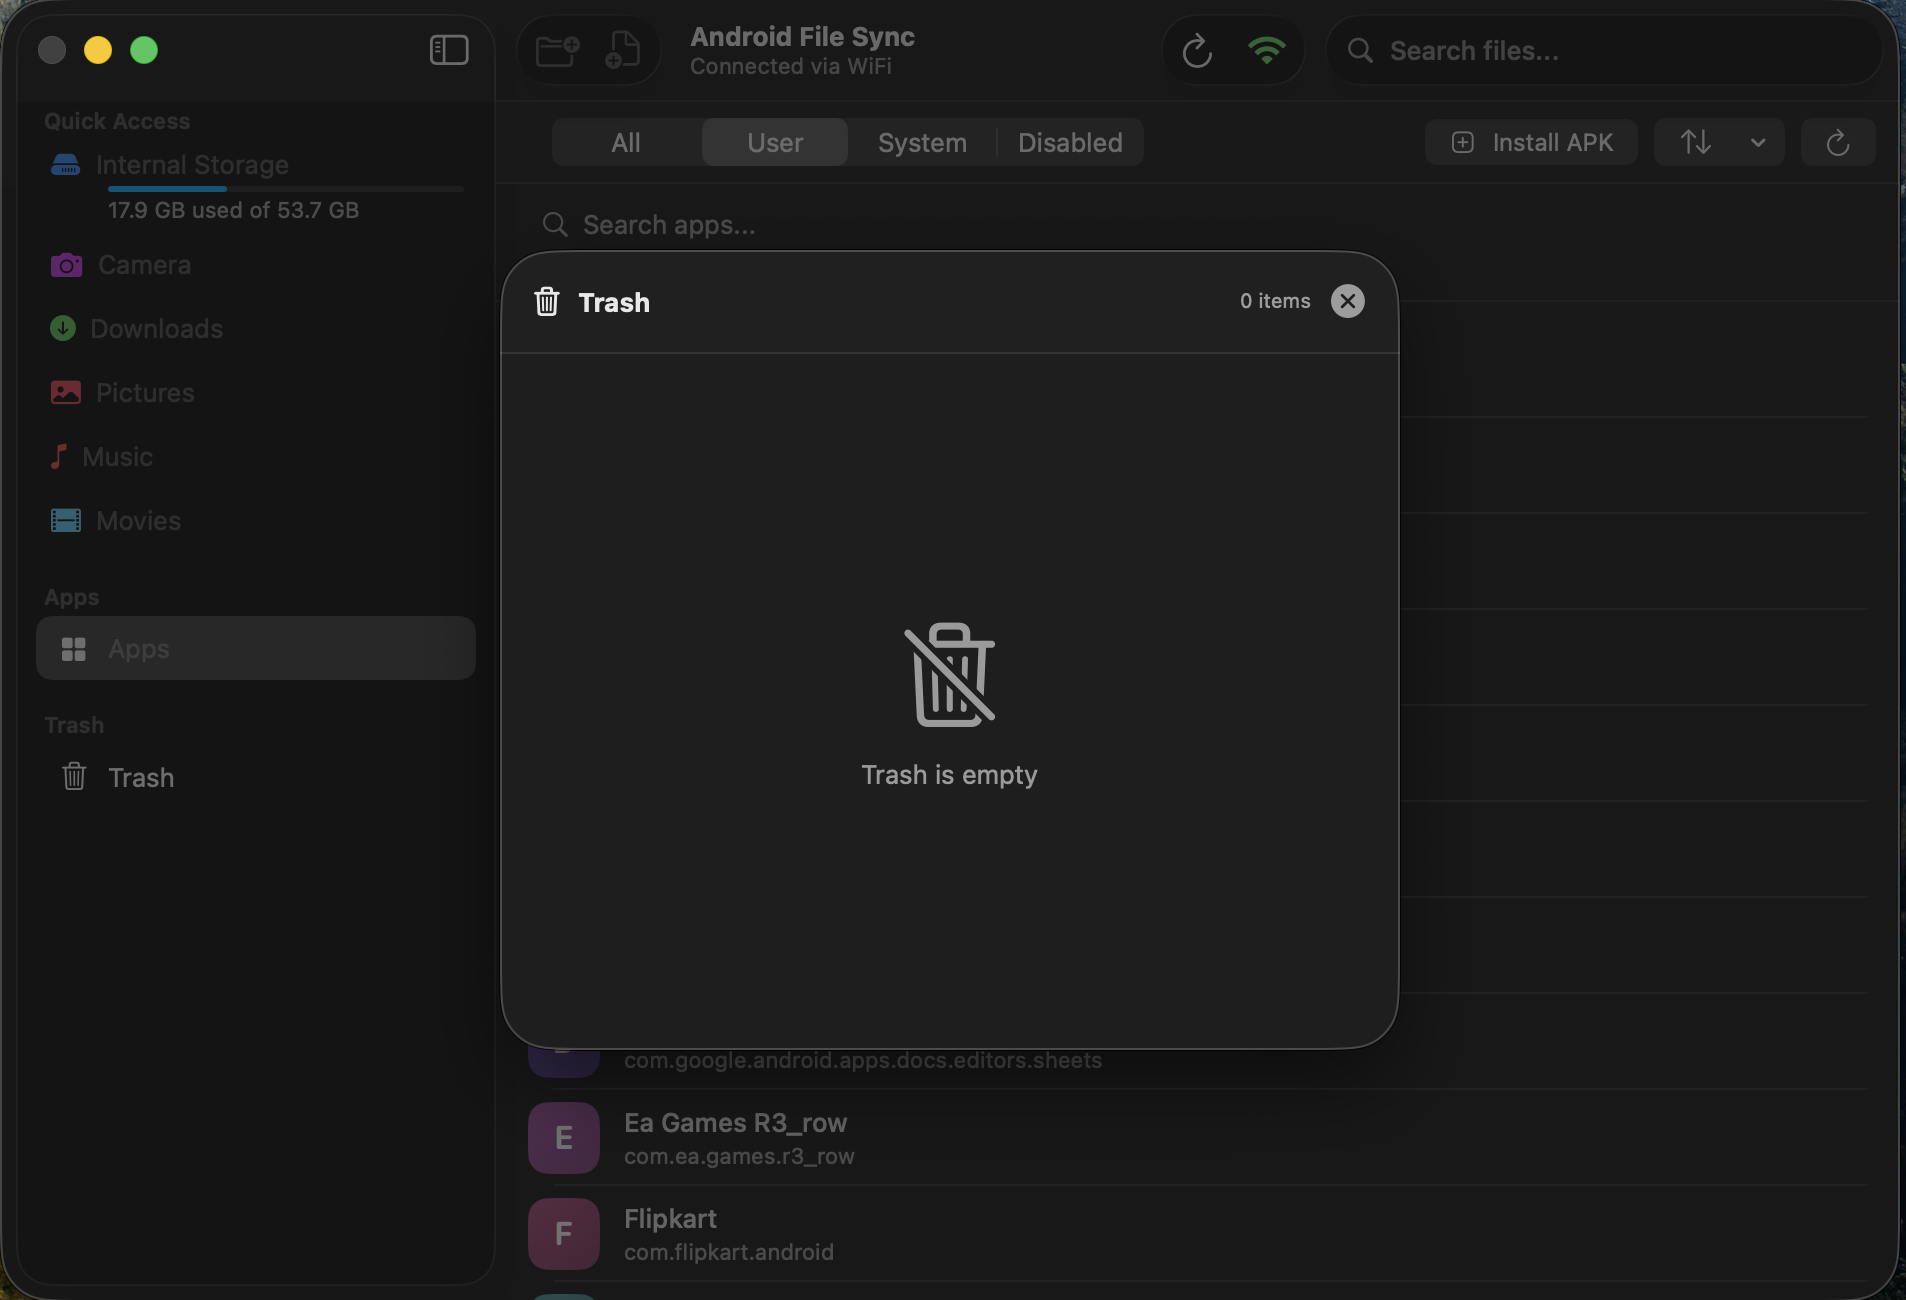
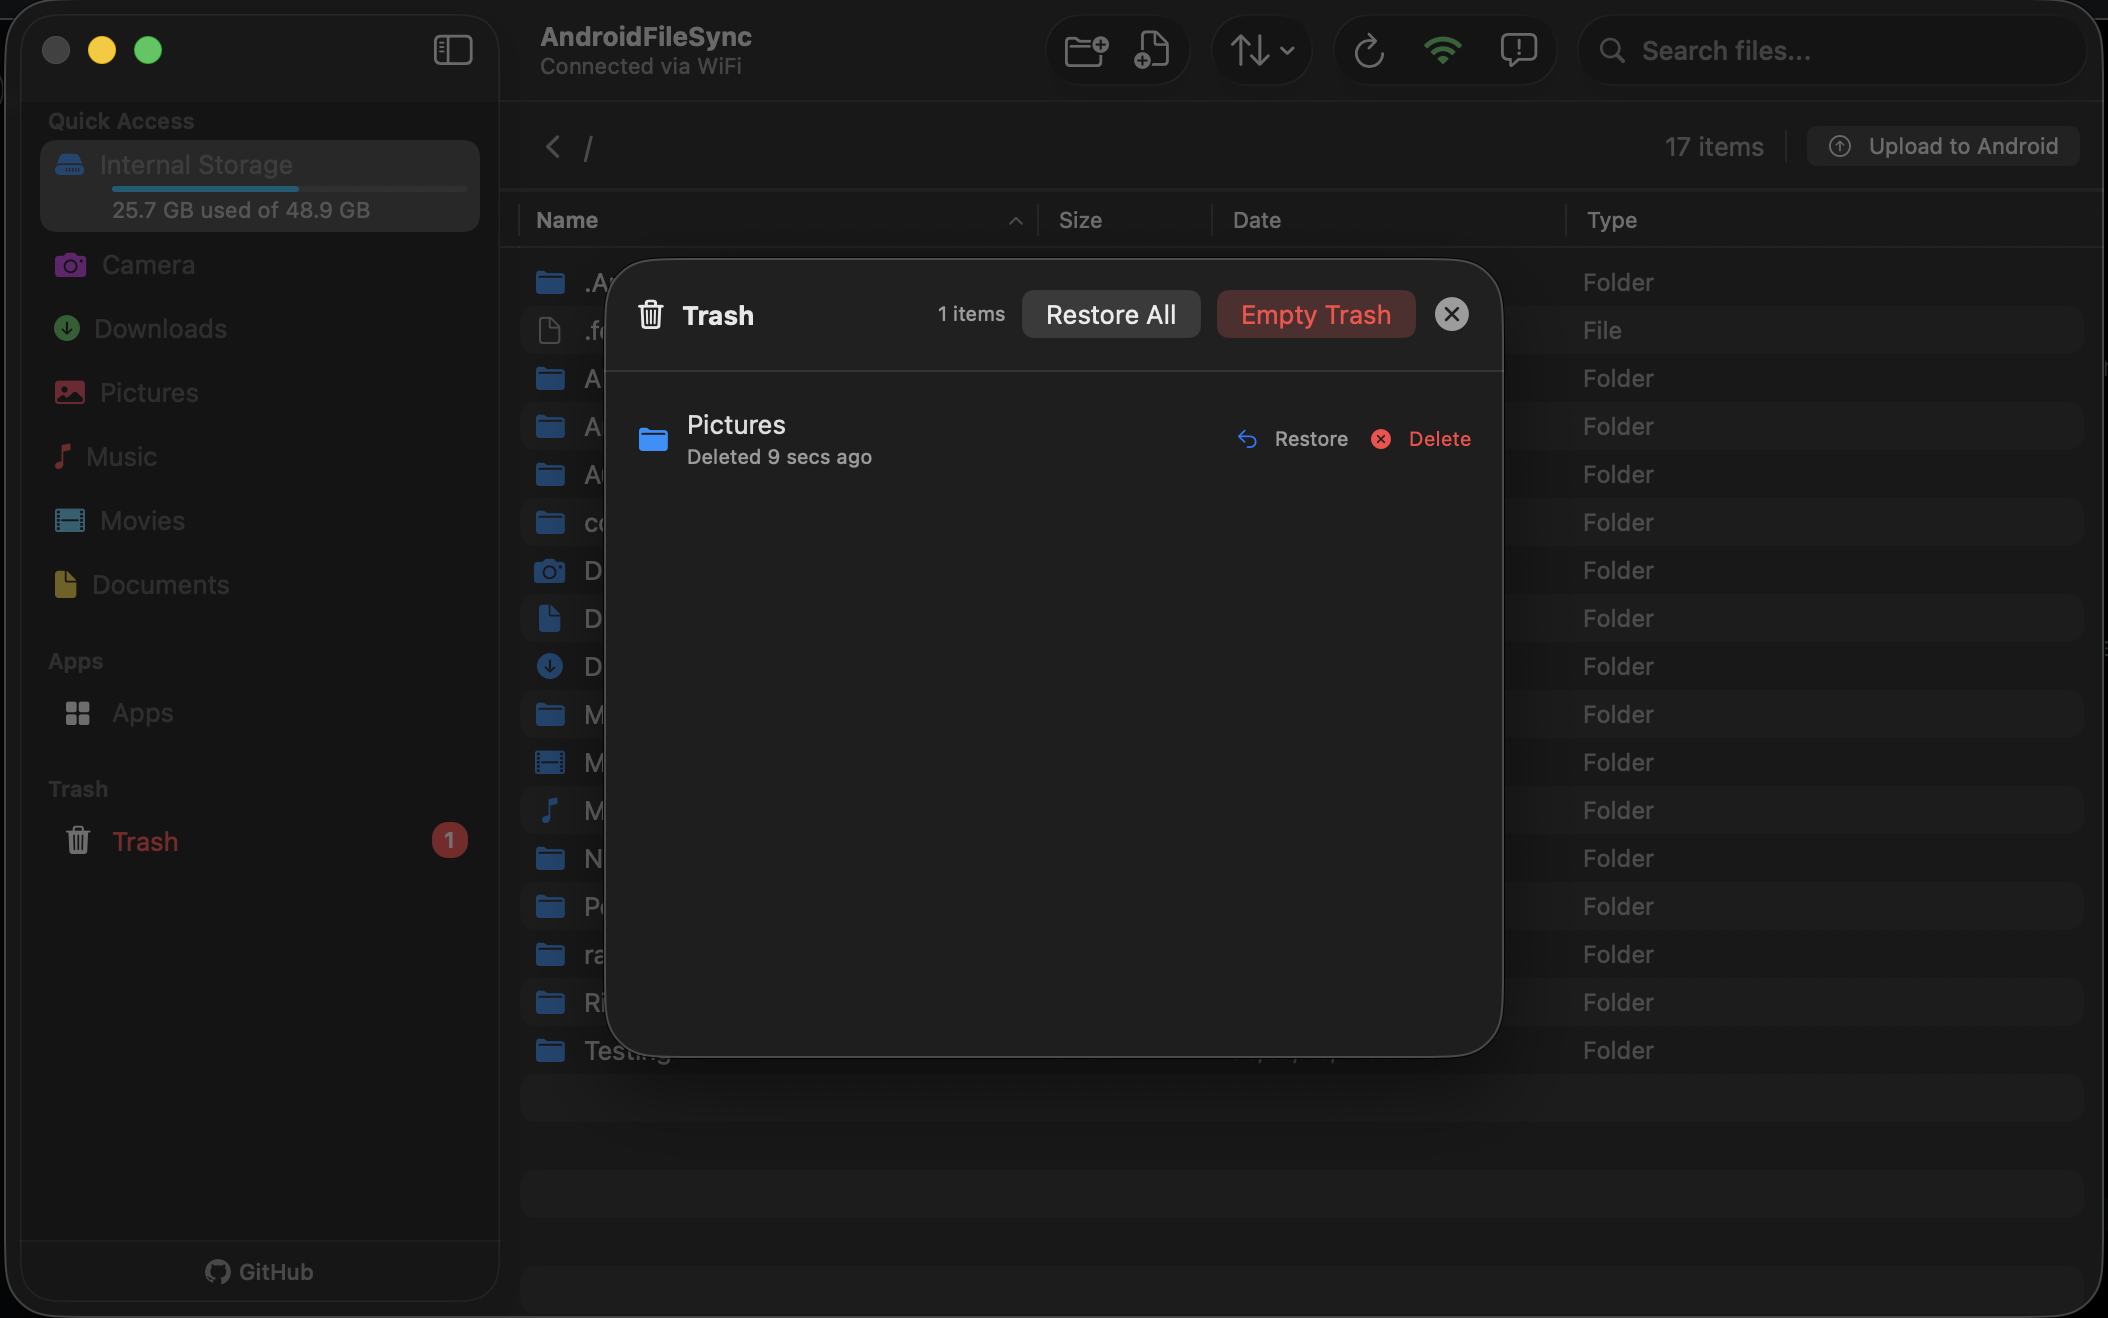
docs: Reame Update

diff --git a/README.md b/README.md
@@ -16,14 +16,14 @@ No cloud. No Google account needed. Plug in via USB or connect wirelessly over W
 - 📁 **Browse your phone like Finder** — Navigate folders, search, sort by name/size/type
 - 🖱 **Drag & Drop** — Drag files from your Mac straight to your phone
 - 📶 **USB or WiFi** — Connect with a cable, or wirelessly over your home network
-- 👁 **Preview files** — Double-click to view images, videos, and PDFs without downloading
+- 👁 **Preview files** — Hit **Spacebar** (or double-click) to view images, videos, and PDFs instantly using native Quick Look
 - 🚀 **Fast transfers** — Upload and download multiple files at the same time
 - ⚠ **Duplicate detection** — Warns you before overwriting files that already exist
 - 🗑 **Trash & Restore** — Deleted something by accident? Restore it, just like on macOS
 - ✂ **Copy, Cut, Paste** — Move files between folders on your phone with clipboard shortcuts
 - 📝 **Rename & Batch operations** — Rename files, change extensions, delete in bulk
 - 💾 **SD Card support** — Browse and manage files on your external SD card
-- 📱 **App Manager** — Install, uninstall, disable and manage apps (System/User) on your Android device
+- 📱 **App Manager & Sideloading** — Sideload `.apk`, `.xapk`, `.apks`, or split `.zip` files by dragging them in, plus uninstall, disable, and backup system/user apps
 
 ---
 
@@ -167,6 +167,29 @@ If Auto-Discovery doesn't find your phone (for example, on a corporate network o
 
 ---
 
+## ⌨ Keyboard Shortcuts
+
+AndroidFileSync supports familiar Finder-like keyboard shortcuts for fast, mouse-free file management:
+
+| Action | Shortcut |
+| :--- | :--- |
+| **Quick Look Preview** | `Spacebar` |
+| **Copy File(s)** | `⌘ C` |
+| **Cut File(s)** | `⌘ X` |
+| **Paste File(s)** | `⌘ V` |
+| **Move to Trash** | `⌘ ⌫` (Command + Delete) |
+| **Delete Permanently** | `⌘ ⌥ ⌫` (Command + Option + Delete) |
+| **Rename File/Folder** | `⌘ ⇧ R` (Command + Shift + R) |
+| **New Folder** | `⌘ ⇧ N` (Command + Shift + N) |
+| **Refresh File List** | `⌘ R` (Command + R) |
+| **Navigate to Parent Folder** | `⌘ ↑` (Command + Up Arrow) |
+| **Go Back in History** | `⌘ [` |
+| **Go Forward in History** | `⌘ ]` |
+| **Get File/Folder Info** | `⌘ I` |
+| **Deselect All** | `⌘ ⇧ A` (Command + Shift + A) |
+
+---
+
 ## Preview
 
 <p align="center">
@@ -222,13 +245,13 @@ If Auto-Discovery doesn't find your phone (for example, on a corporate network o
 - **Copy, Cut & Paste** — Clipboard operations across folders on the device
 - **Trash & Restore** — Move files to trash and restore them later, just like macOS
 - **Delete Permanently** — Bypass Trash and permanently erase files/folders instantly
-- **File Preview** — Double-click to preview images, videos, PDFs, and documents
+- **File Preview (Quick Look)** — Hit Spacebar or double-click to preview images, videos, and PDFs using native Quick Look
 - **Resizable Transfer Panel** — Collapsible, draggable progress view
 
 ### App Management
 
 - **App Browser** — View all installed apps (User, System, Disabled) with icons and labels
-- **Install APK** — Sideload APK files directly from your Mac
+- **Install Apps & Sideloading** — Sideload `.apk`, `.xapk`, `.apks`, or split `.zip` files by dragging them onto the App Manager (with automatic `/obb` folder mapping)
 - **Uninstall Apps** — Remove user-installed apps with confirmation
 - **Disable System Apps** — Disable built-in system apps without rooting
 - **Re-enable Apps** — Restore previously disabled apps with one click
